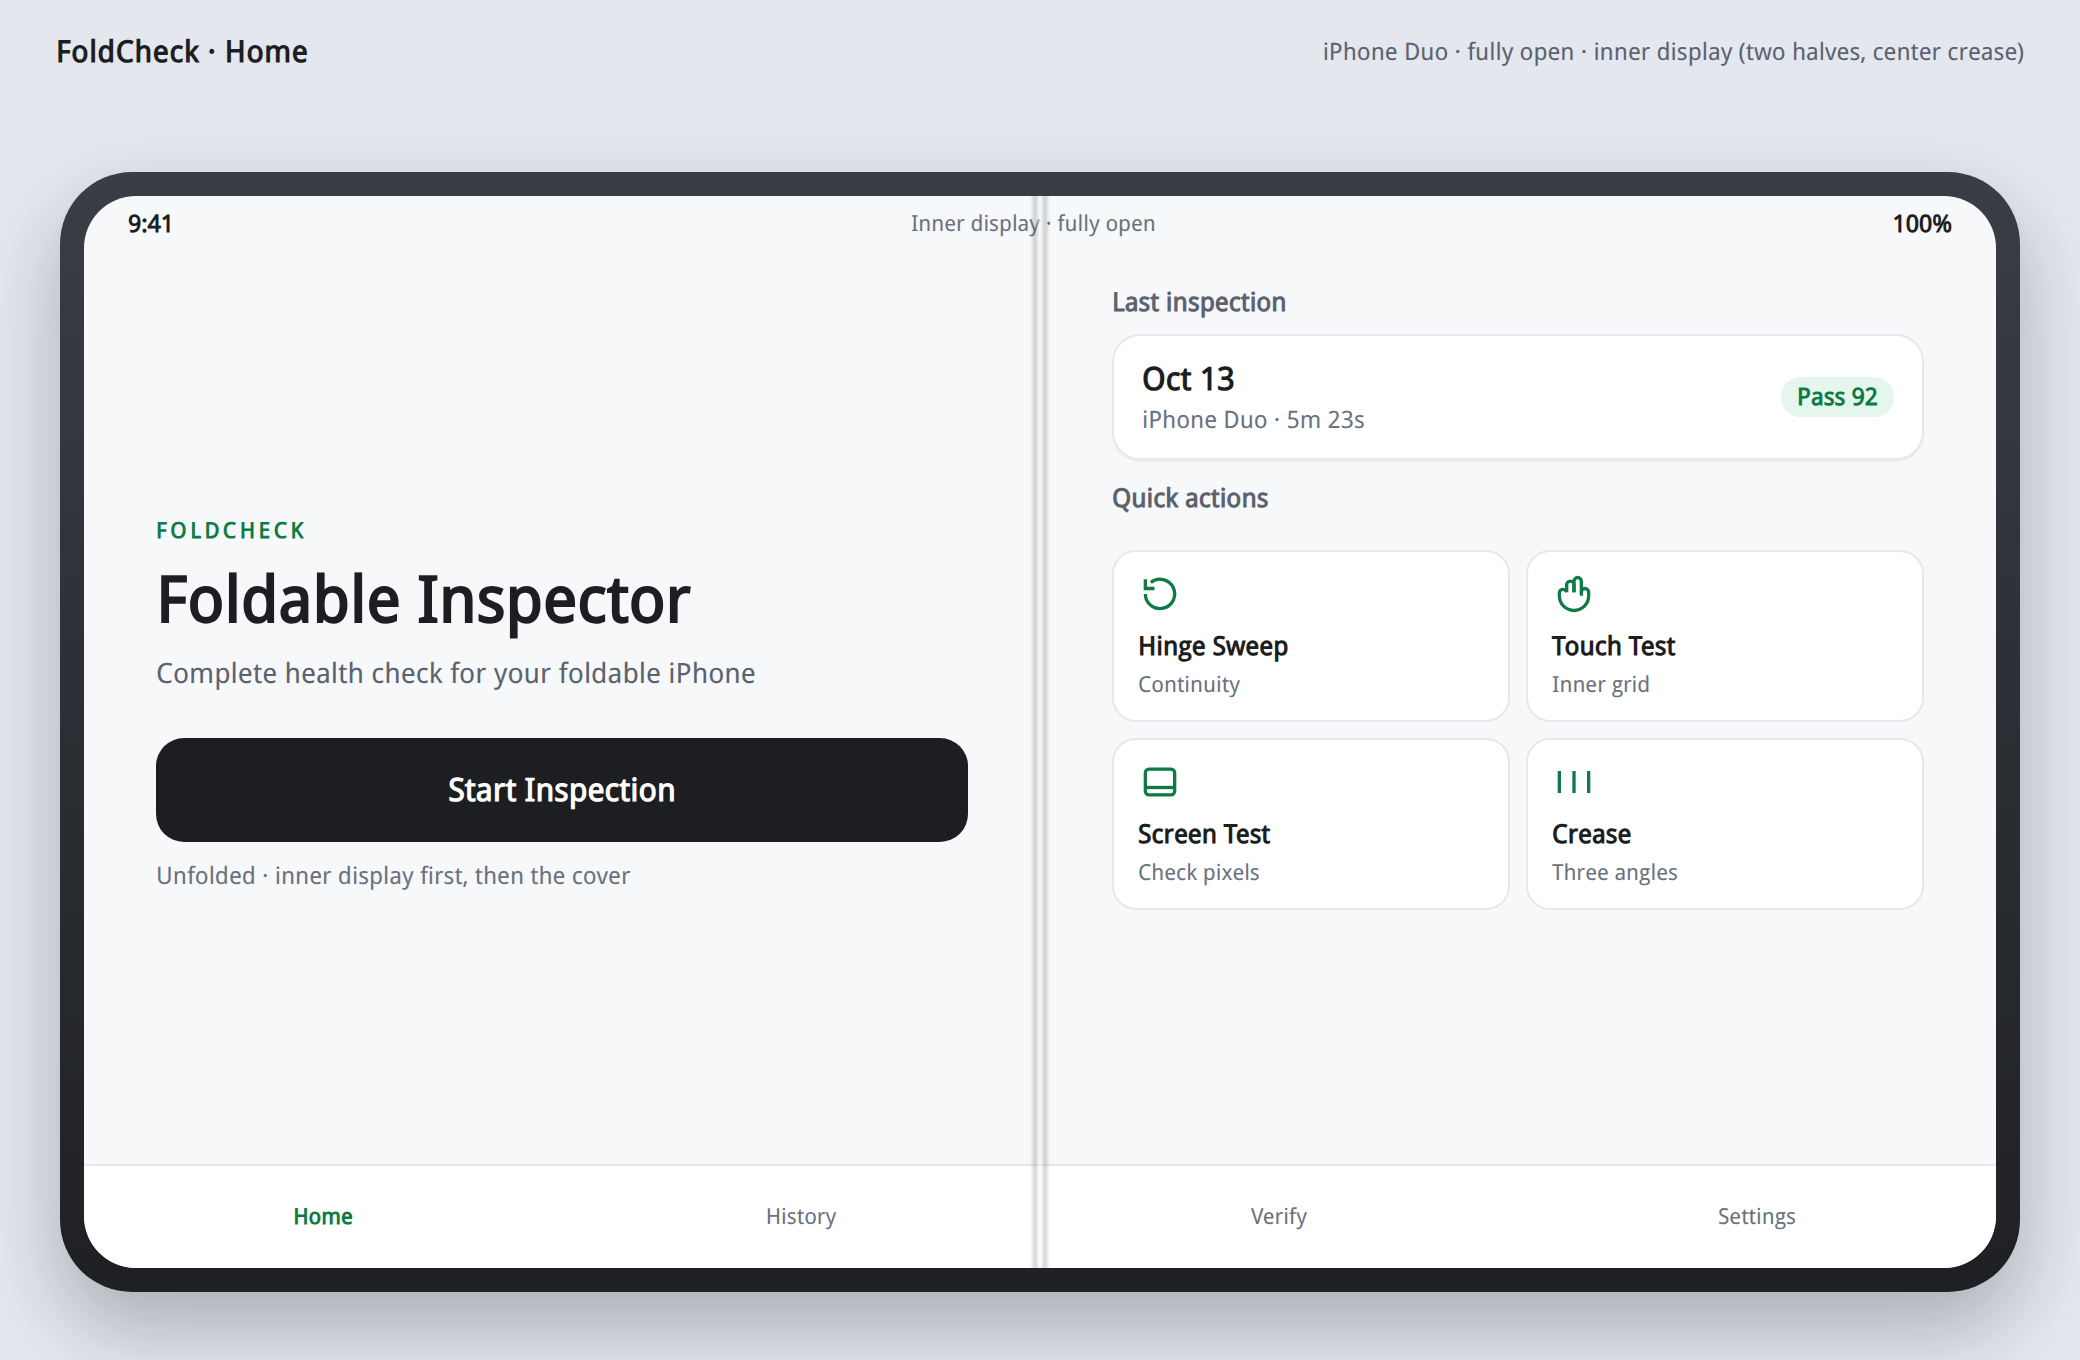
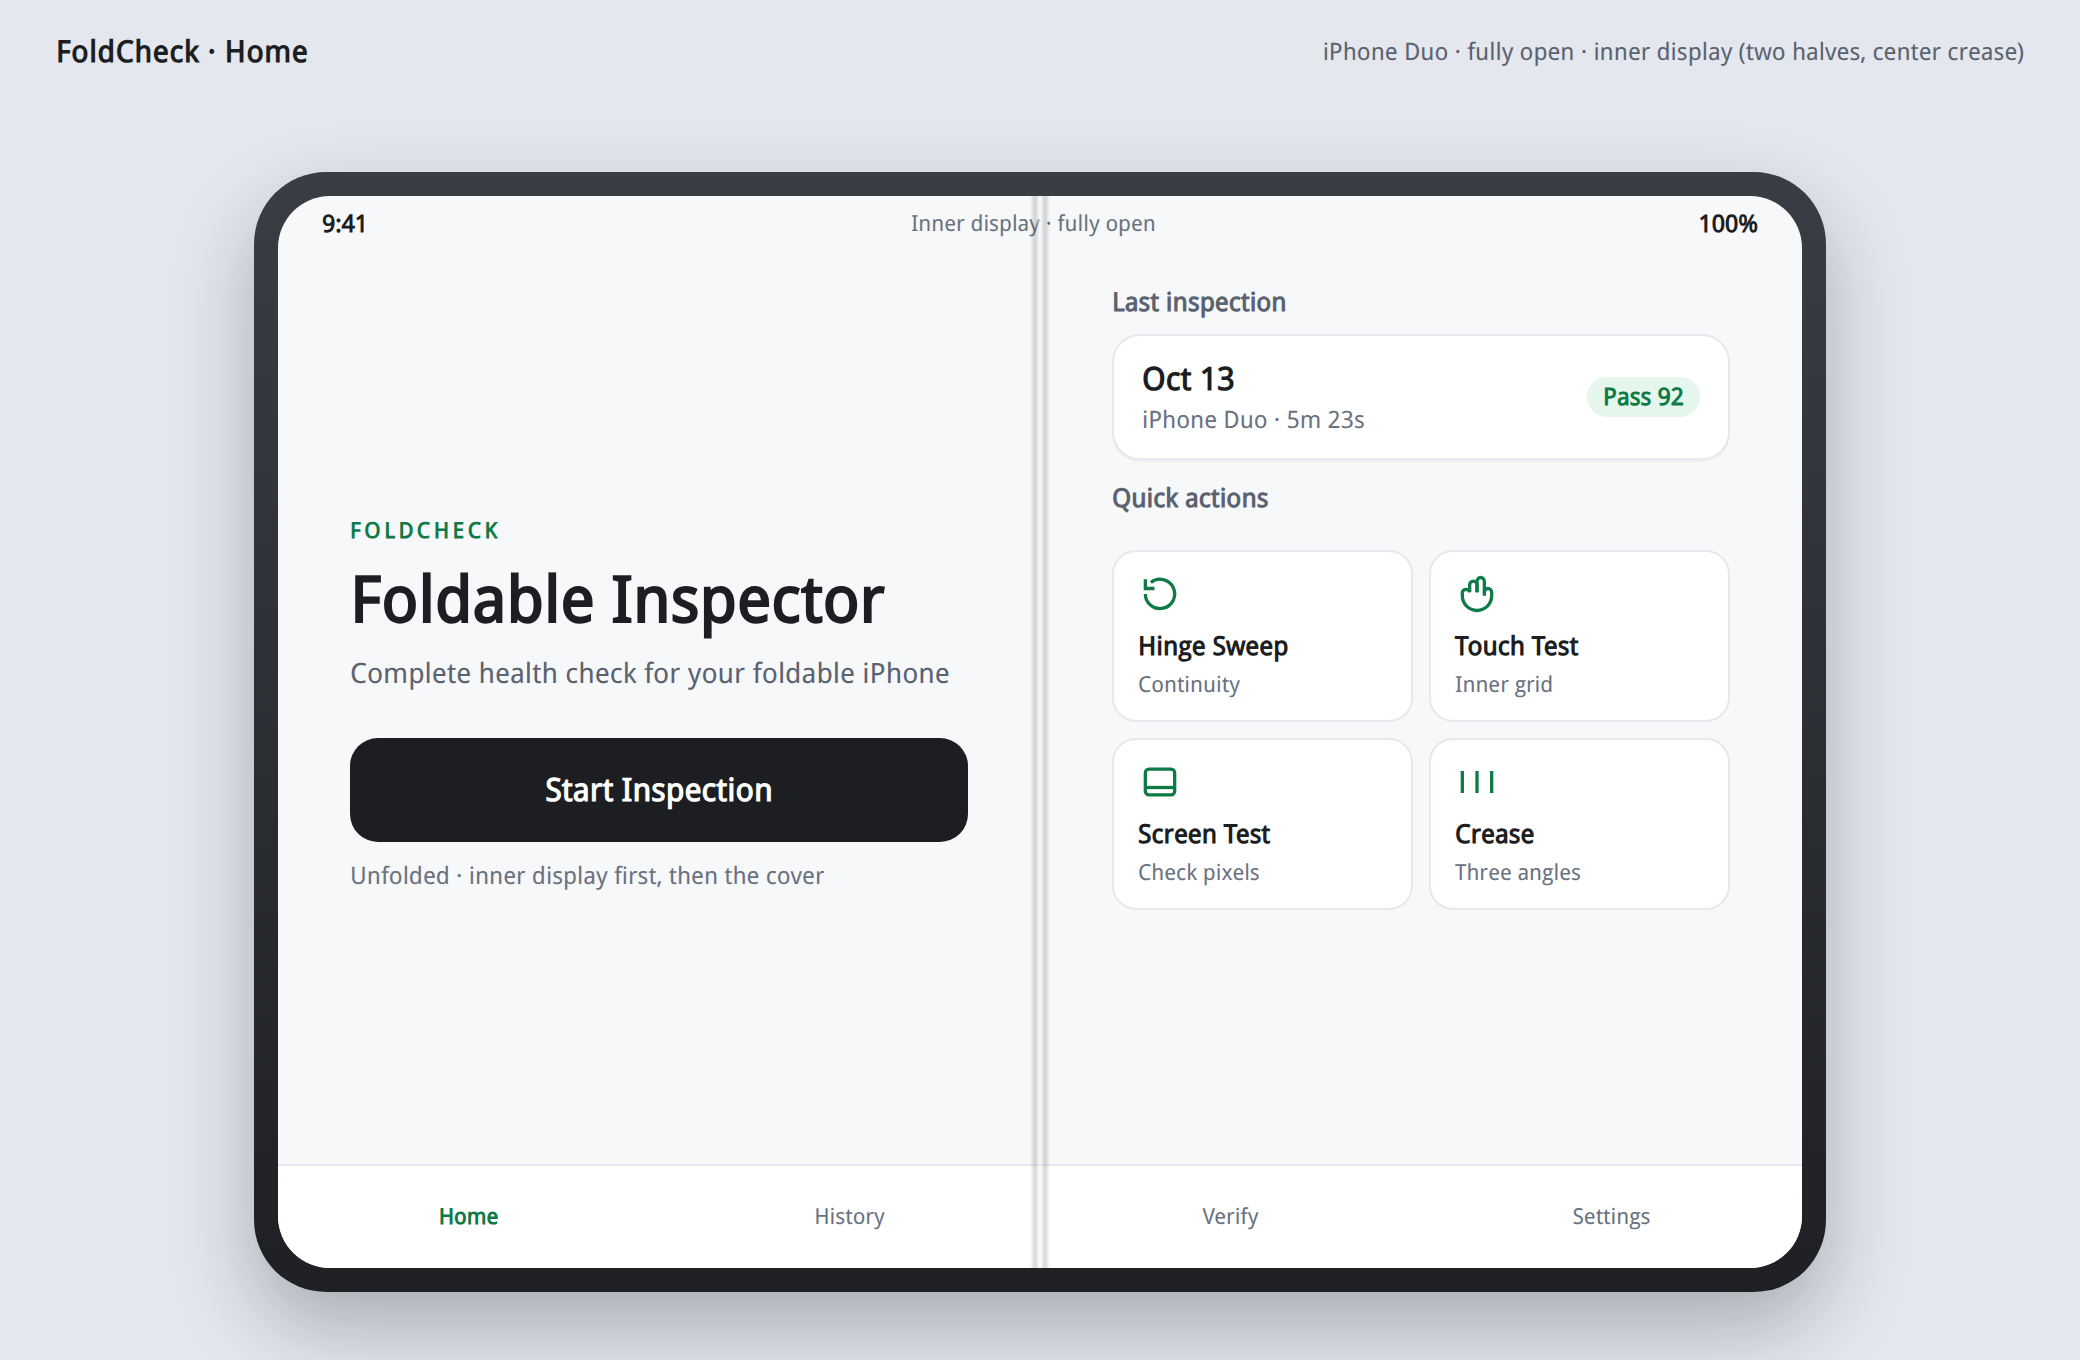
Record public Duo display sizes and match mockup glass ratios.
The cover is 1398×2034 px (5.4", about 1:1.455) and the unfolded inner display is 2670×1878 px (7.6", about 1.42:1). Crease width, point sizes, and scale stay unset assumptions.

diff --git a/Packages/FoldKit/Sources/FoldKit/DuoDisplaySpec.swift b/Packages/FoldKit/Sources/FoldKit/DuoDisplaySpec.swift
@@ -1,0 +1,66 @@
+import Foundation
+
+/// One Duo panel in the orientation it is used.
+public struct DuoDisplayPanel: Equatable, Sendable {
+    /// Advertised diagonal, inches.
+    public var diagonalInches: Double
+    /// Native pixels across, in this orientation.
+    public var pixelWidth: Int
+    /// Native pixels down, in this orientation.
+    public var pixelHeight: Int
+
+    public init(diagonalInches: Double, pixelWidth: Int, pixelHeight: Int) {
+        self.diagonalInches = diagonalInches
+        self.pixelWidth = pixelWidth
+        self.pixelHeight = pixelHeight
+    }
+
+    /// `pixelWidth / pixelHeight`.
+    public var pixelAspectWidthOverHeight: Double {
+        Double(pixelWidth) / Double(pixelHeight)
+    }
+
+    /// `pixelHeight / pixelWidth`.
+    public var pixelAspectHeightOverWidth: Double {
+        Double(pixelHeight) / Double(pixelWidth)
+    }
+}
+
+/// iPhone Duo display sizes.
+///
+/// Pixel counts and diagonals are the PM's numbers from public reporting.
+/// Apple's documentation has not confirmed them. Crease width, point sizes,
+/// and the scale factor are not in those reports; they stay in `Assumption`
+/// and are not derived from the pixel sizes.
+public enum DuoDisplaySpec {
+    /// Cover display. Portrait. About 1:1.455 (height:width).
+    public static let outer = DuoDisplayPanel(
+        diagonalInches: 5.4,
+        pixelWidth: 1398,
+        pixelHeight: 2034
+    )
+
+    /// Unfolded inner display. Landscape. About 1.42:1 (width:height).
+    public static let inner = DuoDisplayPanel(
+        diagonalInches: 7.6,
+        pixelWidth: 2670,
+        pixelHeight: 1878
+    )
+
+    /// Unpublished. Do not fill these in from the pixel sizes.
+    public enum Assumption {
+        /// Physical width of the fold crease, millimeters. Unknown.
+        public static let creaseWidthMillimeters: Double? = nil
+
+        /// Logical point size of the cover. Unknown until `scaleFactor` is known.
+        public static let outerPointWidth: Double? = nil
+        public static let outerPointHeight: Double? = nil
+
+        /// Logical point size of the unfolded inner display. Unknown until `scaleFactor` is known.
+        public static let innerPointWidth: Double? = nil
+        public static let innerPointHeight: Double? = nil
+
+        /// `UIScreen.scale`. Unknown. Do not divide pixels by 2 or 3.
+        public static let scaleFactor: Double? = nil
+    }
+}

diff --git a/Packages/FoldKit/Tests/FoldKitTests/DuoDisplaySpecTests.swift b/Packages/FoldKit/Tests/FoldKitTests/DuoDisplaySpecTests.swift
@@ -1,0 +1,40 @@
+import Testing
+@testable import FoldKit
+
+@Suite("Duo display spec")
+struct DuoDisplaySpecTests {
+
+    @Test("Cover display matches the public portrait size")
+    func outerDisplay() {
+        let outer = DuoDisplaySpec.outer
+        #expect(outer.diagonalInches == 5.4)
+        #expect(outer.pixelWidth == 1398)
+        #expect(outer.pixelHeight == 2034)
+        #expect(outer.pixelHeight > outer.pixelWidth)
+        // Public figure is about 1:1.455 (height:width).
+        #expect(abs(outer.pixelAspectHeightOverWidth - 1.455) < 0.001)
+        #expect(abs(outer.pixelAspectHeightOverWidth - (2034.0 / 1398.0)) < 0.000_000_1)
+    }
+
+    @Test("Inner display matches the public unfolded landscape size")
+    func innerDisplay() {
+        let inner = DuoDisplaySpec.inner
+        #expect(inner.diagonalInches == 7.6)
+        #expect(inner.pixelWidth == 2670)
+        #expect(inner.pixelHeight == 1878)
+        #expect(inner.pixelWidth > inner.pixelHeight)
+        // Public figure is about 1.42:1 (width:height).
+        #expect(abs(inner.pixelAspectWidthOverHeight - 1.42) < 0.005)
+        #expect(abs(inner.pixelAspectWidthOverHeight - (2670.0 / 1878.0)) < 0.000_000_1)
+    }
+
+    @Test("Crease width, point sizes, and scale stay unconfirmed")
+    func assumptionsStayUnset() {
+        #expect(DuoDisplaySpec.Assumption.creaseWidthMillimeters == nil)
+        #expect(DuoDisplaySpec.Assumption.outerPointWidth == nil)
+        #expect(DuoDisplaySpec.Assumption.outerPointHeight == nil)
+        #expect(DuoDisplaySpec.Assumption.innerPointWidth == nil)
+        #expect(DuoDisplaySpec.Assumption.innerPointHeight == nil)
+        #expect(DuoDisplaySpec.Assumption.scaleFactor == nil)
+    }
+}

diff --git a/docs/ui/render/10-cover-folded.html b/docs/ui/render/10-cover-folded.html
@@ -16,7 +16,7 @@
   .notes p { color: #5c6370; font-size: 13px; line-height: 1.5; margin-bottom: 14px; }
   .note { background: #fff; border-radius: 12px; padding: 10px 12px; margin-bottom: 8px; font-size: 13px; border: 1px solid #e1e4ea; }
   .note b { display: block; }
-  .folded { width: 250px; height: 520px; background: linear-gradient(180deg, #3a3d44, #1e2024); border-radius: 36px; padding: 10px 10px 10px 10px; box-shadow: 18px 0 0 #15171b, 26px 0 0 #2a2d33, 0 18px 40px rgba(20,24,32,0.28); position: relative; }
+  .folded { width: 364px; height: 520px; background: linear-gradient(180deg, #3a3d44, #1e2024); border-radius: 36px; padding: 10px 10px 10px 10px; box-shadow: 18px 0 0 #15171b, 26px 0 0 #2a2d33, 0 18px 40px rgba(20,24,32,0.28); position: relative; }
   .spine { position: absolute; right: -18px; top: 40px; bottom: 40px; width: 16px; border-radius: 0 8px 8px 0; background: linear-gradient(90deg, #111, #8a909a 40%, #111); }
   .screen { width: 100%; height: 100%; background: #f7f8fa; border-radius: 28px; padding: 16px 14px; display: flex; flex-direction: column; }
   .time { font-size: 12px; font-weight: 700; }

diff --git a/docs/ui/render/02-test-intro-unfolded.html b/docs/ui/render/02-test-intro-unfolded.html
@@ -11,7 +11,7 @@
   .caption h1 { font-size: 15px; font-weight: 700; }
   .caption span { font-size: 12px; color: #5c6370; }
   .stage { height: 628px; display: flex; align-items: center; justify-content: center; }
-  .device { width: 980px; height: 560px; background: linear-gradient(180deg, #3a3d44, #1e2024); border-radius: 36px; padding: 12px; box-shadow: 0 18px 40px rgba(20,24,32,0.28); }
+  .device { width: 786px; height: 560px; background: linear-gradient(180deg, #3a3d44, #1e2024); border-radius: 36px; padding: 12px; box-shadow: 0 18px 40px rgba(20,24,32,0.28); }
   .screen { width: 100%; height: 100%; background: #f7f8fa; border-radius: 26px; position: relative; overflow: hidden; display: flex; flex-direction: column; }
   .crease { position: absolute; top: 0; bottom: 0; left: 50%; width: 10px; transform: translateX(-50%); background: linear-gradient(90deg, rgba(0,0,0,0), rgba(0,0,0,0.16), rgba(255,255,255,0.55), rgba(0,0,0,0.16), rgba(0,0,0,0)); z-index: 4; }
   .status { height: 28px; display: flex; justify-content: space-between; align-items: center; padding: 0 22px; font-size: 12px; font-weight: 700; }

diff --git a/docs/ui/render/03-hinge-sweep-unfolded.html b/docs/ui/render/03-hinge-sweep-unfolded.html
@@ -11,7 +11,7 @@
   .caption h1 { font-size: 15px; font-weight: 700; }
   .caption span { font-size: 12px; color: #5c6370; }
   .stage { height: 628px; display: flex; align-items: center; justify-content: center; }
-  .device { width: 980px; height: 560px; background: linear-gradient(180deg, #3a3d44, #1e2024); border-radius: 36px; padding: 12px; box-shadow: 0 18px 40px rgba(20,24,32,0.28); }
+  .device { width: 786px; height: 560px; background: linear-gradient(180deg, #3a3d44, #1e2024); border-radius: 36px; padding: 12px; box-shadow: 0 18px 40px rgba(20,24,32,0.28); }
   .screen { width: 100%; height: 100%; background: #121417; border-radius: 26px; position: relative; overflow: hidden; display: flex; }
   .crease { position: absolute; top: 0; bottom: 0; left: 50%; width: 10px; transform: translateX(-50%); background: linear-gradient(90deg, rgba(0,0,0,0), rgba(255,255,255,0.08), rgba(255,255,255,0.35), rgba(255,255,255,0.08), rgba(0,0,0,0)); z-index: 4; }
   .half { width: 50%; padding: 28px 40px; display: flex; flex-direction: column; justify-content: center; }

diff --git a/docs/ui/render/05-summary-unfolded.html b/docs/ui/render/05-summary-unfolded.html
@@ -11,7 +11,7 @@
   .caption h1 { font-size: 15px; font-weight: 700; }
   .caption span { font-size: 12px; color: #5c6370; }
   .stage { height: 628px; display: flex; align-items: center; justify-content: center; }
-  .device { width: 980px; height: 560px; background: linear-gradient(180deg, #3a3d44, #1e2024); border-radius: 36px; padding: 12px; box-shadow: 0 18px 40px rgba(20,24,32,0.28); }
+  .device { width: 786px; height: 560px; background: linear-gradient(180deg, #3a3d44, #1e2024); border-radius: 36px; padding: 12px; box-shadow: 0 18px 40px rgba(20,24,32,0.28); }
   .screen { width: 100%; height: 100%; background: #f7f8fa; border-radius: 26px; position: relative; overflow: hidden; display: flex; }
   .crease { position: absolute; top: 0; bottom: 0; left: 50%; width: 10px; transform: translateX(-50%); background: linear-gradient(90deg, rgba(0,0,0,0), rgba(0,0,0,0.16), rgba(255,255,255,0.55), rgba(0,0,0,0.16), rgba(0,0,0,0)); z-index: 4; }
   .half { width: 50%; padding: 28px 36px; display: flex; flex-direction: column; justify-content: center; }

diff --git a/docs/ui/render/07-verify-unfolded.html b/docs/ui/render/07-verify-unfolded.html
@@ -11,7 +11,7 @@
   .caption h1 { font-size: 15px; font-weight: 700; }
   .caption span { font-size: 12px; color: #5c6370; }
   .stage { height: 628px; display: flex; align-items: center; justify-content: center; }
-  .device { width: 980px; height: 560px; background: linear-gradient(180deg, #3a3d44, #1e2024); border-radius: 36px; padding: 12px; box-shadow: 0 18px 40px rgba(20,24,32,0.28); }
+  .device { width: 786px; height: 560px; background: linear-gradient(180deg, #3a3d44, #1e2024); border-radius: 36px; padding: 12px; box-shadow: 0 18px 40px rgba(20,24,32,0.28); }
   .screen { width: 100%; height: 100%; background: #f7f8fa; border-radius: 26px; position: relative; overflow: hidden; display: flex; }
   .crease { position: absolute; top: 0; bottom: 0; left: 50%; width: 10px; transform: translateX(-50%); background: linear-gradient(90deg, rgba(0,0,0,0), rgba(0,0,0,0.16), rgba(255,255,255,0.55), rgba(0,0,0,0.16), rgba(0,0,0,0)); z-index: 4; }
   .half { width: 50%; padding: 32px 36px; display: flex; flex-direction: column; justify-content: center; }

diff --git a/docs/ui/render/08-paywall-unfolded.html b/docs/ui/render/08-paywall-unfolded.html
@@ -11,7 +11,7 @@
   .caption h1 { font-size: 15px; font-weight: 700; }
   .caption span { font-size: 12px; color: #5c6370; }
   .stage { height: 628px; display: flex; align-items: center; justify-content: center; }
-  .device { width: 980px; height: 560px; background: linear-gradient(180deg, #3a3d44, #1e2024); border-radius: 36px; padding: 12px; box-shadow: 0 18px 40px rgba(20,24,32,0.28); }
+  .device { width: 786px; height: 560px; background: linear-gradient(180deg, #3a3d44, #1e2024); border-radius: 36px; padding: 12px; box-shadow: 0 18px 40px rgba(20,24,32,0.28); }
   .screen { width: 100%; height: 100%; background: #f7f8fa; border-radius: 26px; position: relative; overflow: hidden; display: flex; }
   .crease { position: absolute; top: 0; bottom: 0; left: 50%; width: 10px; transform: translateX(-50%); background: linear-gradient(90deg, rgba(0,0,0,0), rgba(0,0,0,0.16), rgba(255,255,255,0.55), rgba(0,0,0,0.16), rgba(0,0,0,0)); z-index: 4; }
   .half { width: 50%; padding: 32px 36px; display: flex; flex-direction: column; justify-content: center; }

diff --git a/docs/ui/render/06-report-unfolded.html b/docs/ui/render/06-report-unfolded.html
@@ -11,7 +11,7 @@
   .caption h1 { font-size: 15px; font-weight: 700; }
   .caption span { font-size: 12px; color: #5c6370; }
   .stage { height: 628px; display: flex; align-items: center; justify-content: center; }
-  .device { width: 980px; height: 560px; background: linear-gradient(180deg, #3a3d44, #1e2024); border-radius: 36px; padding: 12px; box-shadow: 0 18px 40px rgba(20,24,32,0.28); }
+  .device { width: 786px; height: 560px; background: linear-gradient(180deg, #3a3d44, #1e2024); border-radius: 36px; padding: 12px; box-shadow: 0 18px 40px rgba(20,24,32,0.28); }
   .screen { width: 100%; height: 100%; background: #eceff3; border-radius: 26px; position: relative; overflow: hidden; display: flex; }
   .crease { position: absolute; top: 0; bottom: 0; left: 50%; width: 10px; transform: translateX(-50%); background: linear-gradient(90deg, rgba(0,0,0,0), rgba(0,0,0,0.18), rgba(255,255,255,0.45), rgba(0,0,0,0.18), rgba(0,0,0,0)); z-index: 4; }
   .half { width: 50%; padding: 18px 28px; }

diff --git a/docs/ui/render/04-touch-grid-unfolded.html b/docs/ui/render/04-touch-grid-unfolded.html
@@ -11,7 +11,7 @@
   .caption h1 { font-size: 15px; font-weight: 700; }
   .caption span { font-size: 12px; color: #5c6370; }
   .stage { height: 628px; display: flex; align-items: center; justify-content: center; }
-  .device { width: 980px; height: 560px; background: linear-gradient(180deg, #3a3d44, #1e2024); border-radius: 36px; padding: 12px; box-shadow: 0 18px 40px rgba(20,24,32,0.28); }
+  .device { width: 786px; height: 560px; background: linear-gradient(180deg, #3a3d44, #1e2024); border-radius: 36px; padding: 12px; box-shadow: 0 18px 40px rgba(20,24,32,0.28); }
   .screen { width: 100%; height: 100%; background: #0e1013; border-radius: 26px; position: relative; overflow: hidden; color: #fff; }
   .hud { position: absolute; top: 16px; left: 24px; right: 24px; z-index: 5; display: flex; justify-content: space-between; align-items: center; font-size: 13px; }
   .bar { width: 280px; height: 6px; background: #2a2e35; border-radius: 99px; overflow: hidden; }

diff --git a/docs/ui/render/09-crease-partial.html b/docs/ui/render/09-crease-partial.html
@@ -11,7 +11,7 @@
   .caption h1 { font-size: 15px; font-weight: 700; }
   .caption span { font-size: 12px; color: #5c6370; }
   .stage { height: 644px; display: flex; align-items: center; justify-content: center; gap: 0; }
-  .leaf { width: 470px; height: 560px; background: linear-gradient(180deg, #3a3d44, #1e2024); padding: 12px; box-shadow: 0 18px 40px rgba(20,24,32,0.28); }
+  .leaf { width: 405px; height: 560px; background: linear-gradient(180deg, #3a3d44, #1e2024); padding: 12px; box-shadow: 0 18px 40px rgba(20,24,32,0.28); }
   .leaf.l { border-radius: 36px 10px 10px 36px; }
   .leaf.r { border-radius: 10px 36px 36px 10px; }
   .hinge { width: 28px; height: 520px; background: linear-gradient(90deg, #1a1c20, #6a707a, #1a1c20); border-radius: 6px; box-shadow: inset 0 0 0 1px #111; }

diff --git a/docs/ui/render/01-home-unfolded.html b/docs/ui/render/01-home-unfolded.html
@@ -12,7 +12,7 @@
   .caption span { font-size: 12px; color: #5c6370; }
   .stage { height: 628px; display: flex; align-items: center; justify-content: center; }
   .device {
-    width: 980px; height: 560px; background: linear-gradient(180deg, #3a3d44, #1e2024);
+    width: 786px; height: 560px; background: linear-gradient(180deg, #3a3d44, #1e2024);
     border-radius: 36px; padding: 12px; position: relative;
     box-shadow: 0 18px 40px rgba(20,24,32,0.28);
   }
